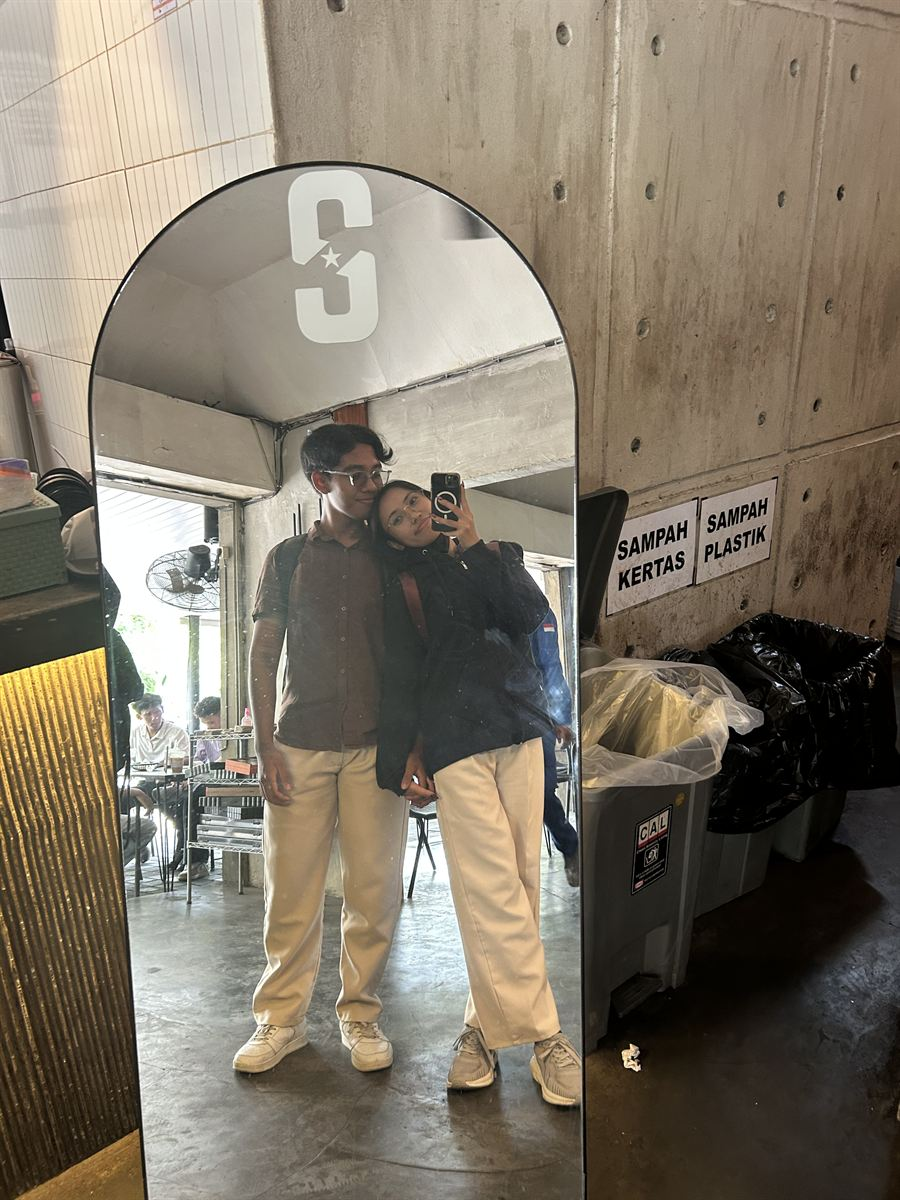
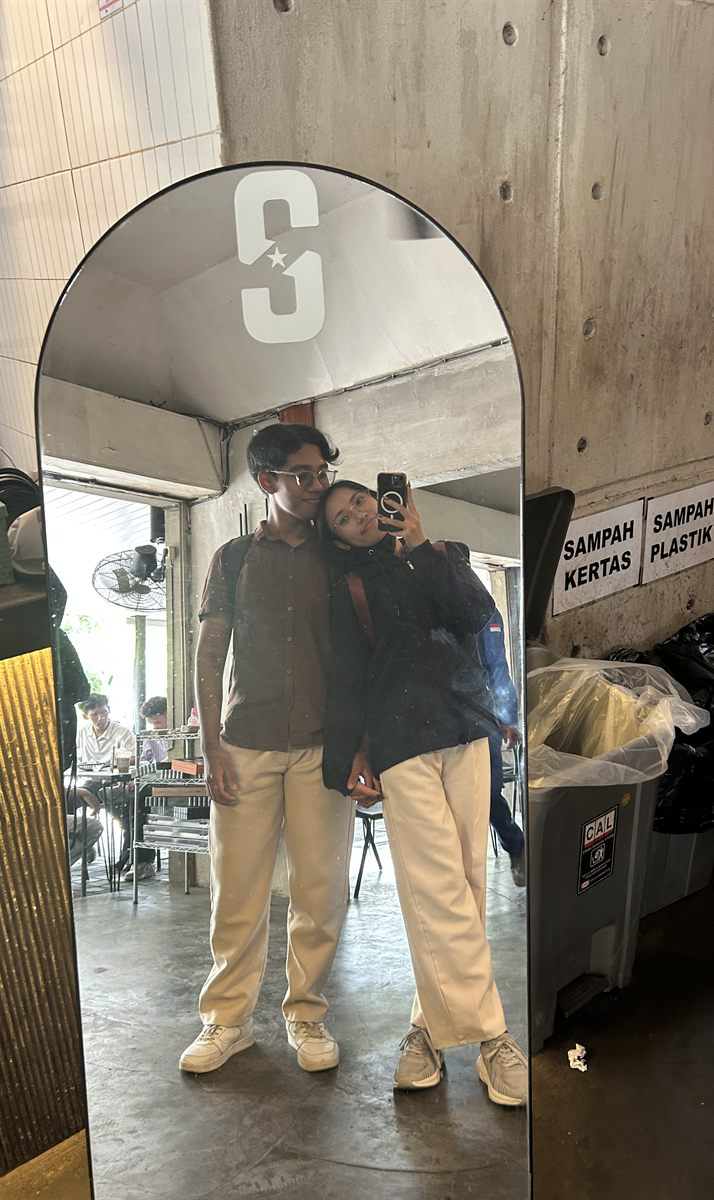
update foto

diff --git a/script.js b/script.js
@@ -70,7 +70,7 @@ const PHOTOS = [
   },
   {
     src: "assets/photos/kenangan-03.jpg",
-    caption: "Momen manis kita",
+    caption: "Wedding kita, ehhh",
     date: "12 Oktober 2026"
   },
   {
@@ -80,117 +80,117 @@ const PHOTOS = [
   },
   {
     src: "assets/photos/kenangan-05.jpg",
-    caption: "Bersamamu selalu menyenangkan",
+    caption: "Nempel banget kak, temenan loh",
     date: "19 Oktober 2026"
   },
   {
     src: "assets/photos/kenangan-06.jpg",
-    caption: "Senja dan cerita kita",
+    caption: "Aku nyamperin kamu",
     date: "20 Oktober 2026"
   },
   {
     src: "assets/photos/kenangan-07.jpg",
-    caption: "Tawa kecil yang selalu kurindukan",
+    caption: "Aku nyamperin kamu lagi, kita mesra-mesraan",
     date: "21 Oktober 2026"
   },
   {
     src: "assets/photos/kenangan-08.jpg",
-    caption: "Hari yang penuh senyum",
+    caption: "Lucu bangett sih",
     date: "21 Oktober 2026"
   },
   {
     src: "assets/photos/kenangan-09.jpg",
-    caption: "Di setiap langkah ada kamu",
+    caption: "First Mwah ya???",
     date: "21 Oktober 2026"
   },
   {
+    src: "assets/photos/kenangan-27.jpg",
+    caption: "Ett, jadiann tuhhh",
+    date: "22 Oktober 2026"
+  },
+  {
     src: "assets/photos/kenangan-10.jpg",
-    caption: "Momen berdua yang berharga",
+    caption: "Nyosor gitu kak",
     date: "23 Oktober 2026"
   },
   {
     src: "assets/photos/kenangan-11.jpg",
-    caption: "Malam itu bersamamu",
+    caption: "Lw date sama kamu",
     date: "23 Oktober 2026"
   },
   {
     src: "assets/photos/kenangan-12.jpg",
-    caption: "Bahagia itu sederhana",
+    caption: "Numpang foto aja",
     date: "23 Oktober 2026"
   },
   {
     src: "assets/photos/kenangan-13.jpg",
-    caption: "Satu lagi kenangan indah",
+    caption: "Belajar algoritma sama kamu",
     date: "26 Oktober 2026"
   },
   {
     src: "assets/photos/kenangan-14.jpg",
-    caption: "Sore yang tenang denganmu",
+    caption: "mesra bangett kita kak",
     date: "29 Oktober 2026"
   },
   {
     src: "assets/photos/kenangan-15.jpg",
-    caption: "Menikmati waktu berdua",
+    caption: "Lucu banget kalian",
     date: "29 Oktober 2026"
   },
   {
     src: "assets/photos/kenangan-16.jpg",
-    caption: "Penghujung Oktober kita",
+    caption: "Jalan-jalan ke Bandong (collection)",
     date: "30 Oktober 2026"
   },
   {
     src: "assets/photos/kenangan-17.jpg",
-    caption: "Awal bulan yang manis",
+    caption: "nempel bangett sih",
     date: "01 November 2026"
   },
   {
     src: "assets/photos/kenangan-18.jpg",
-    caption: "Selalu ada alasan untuk tersenyum",
+    caption: "Podscast bindo bareng mbg guehh",
     date: "01 November 2026"
   },
   {
     src: "assets/photos/kenangan-19.jpg",
-    caption: "Hari indah bersamamu",
+    caption: "Peyukkkkkkkk",
     date: "06 November 2026"
   },
   {
     src: "assets/photos/kenangan-20.jpg",
-    caption: "Cerita di siang hari",
+    caption: "Ngedate teruss ya kak",
     date: "06 November 2026"
   },
   {
     src: "assets/photos/kenangan-21.jpg",
-    caption: "Menjelang senja",
+    caption: "Ketemu camer tuhh",
     date: "08 November 2026"
   },
   {
     src: "assets/photos/kenangan-22.jpg",
-    caption: "Langit sore dan kamu",
+    caption: "LW date lagii dongg",
     date: "08 November 2026"
   },
   {
     src: "assets/photos/kenangan-23.jpg",
-    caption: "Pertengahan November yang hangat",
+    caption: "poto-poto randomm aja, tapi selaluu bareng",
     date: "13 November 2026"
   },
   {
     src: "assets/photos/kenangan-24.jpg",
-    caption: "Momen tak terlupakan",
+    caption: "Makrab date, lucuu ",
     date: "22 November 2026"
   },
   {
     src: "assets/photos/kenangan-25.jpg",
-    caption: "Tatap dan senyummu",
+    caption: "seperti biasa, nempel terus",
     date: "22 November 2026"
   },
   {
     src: "assets/photos/kenangan-26.jpg",
-    caption: "Malam yang penuh arti",
-    date: "22 November 2026"
-  },
-  {
-    src: "assets/photos/kenangan-27.jpg",
-    caption: "Terima kasih untuk segalanya, sayang ♥",
+    caption: "Aduh potbar tuhh",
     date: "22 November 2026"
   }
 ];
